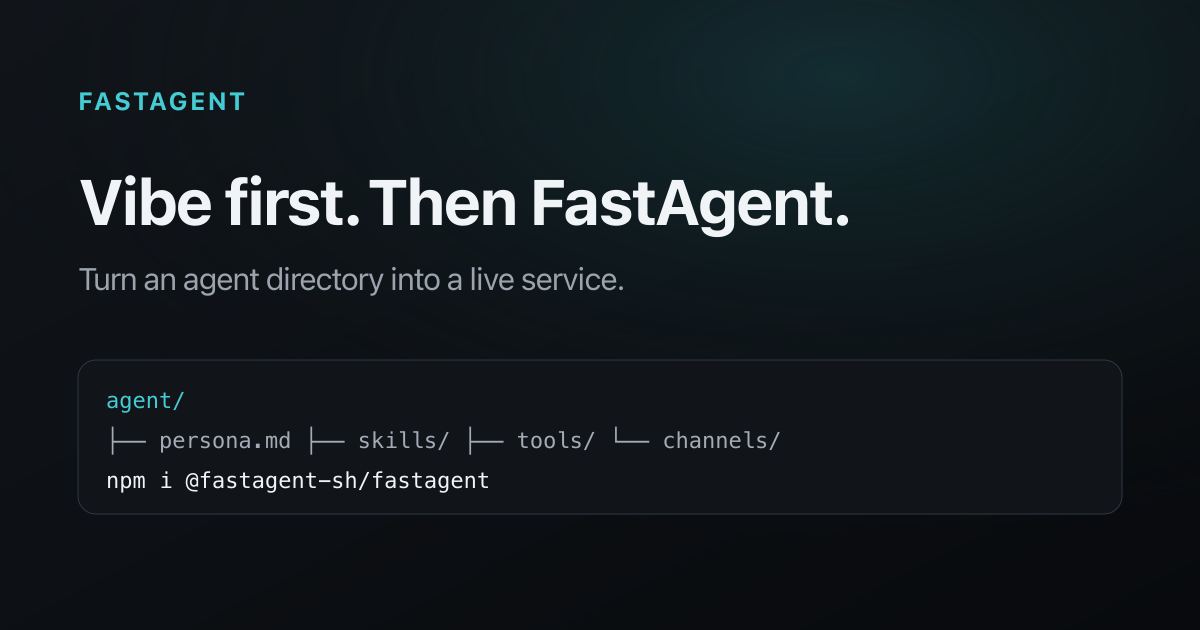
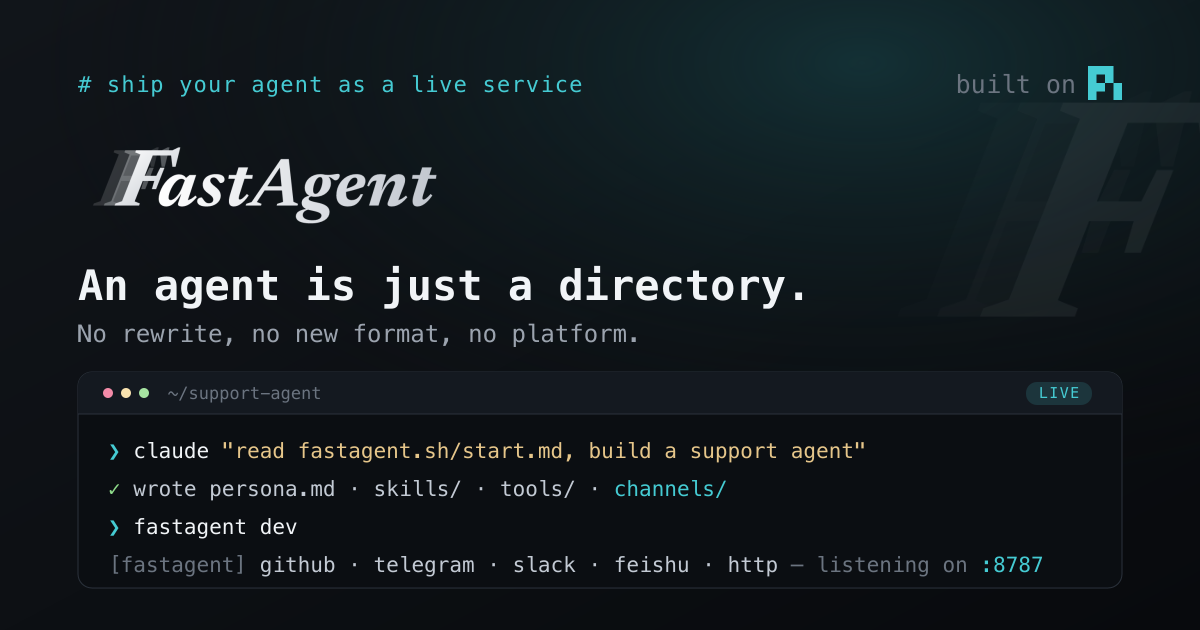
Redesign the OG card around the wordmark; credit pi on the page (#44)
The card never used the brand's best-drawn asset. It spelled "FastAgent"
in a system sans and set the headline in one too, while every surface of
the site is typeset in mono — which is most of why the card read as any
other dev-tool ad.

It is now logo → claim → proof: the wordmark carries the identity (as a
PNG it renders the same on every machine, unlike text), the claim says
what the thing is, and a terminal window replays the hero's two acts in
four lines. The mark rises behind the window as a watermark. The poster
palette is unchanged — near-black ground, one teal glow — which is also
the one cool hue that agrees with the silver wordmark.

pi, the built-in harness, is credited with its own mark from pi.dev's
press kit: top-right of the card, in the hero's trust strip, beside the
core diagram's harness seam, and in the footer. The mark spells the
name, so no "pi" is set next to it; `title` carries it for readers, and
`.pi-credit` gives the text-less link a tap target. The path lives in
brand-icons.ts, so the page and the card draw one copy.

Also: the hero note now claims model and platform neutrality where it
claimed harness neutrality, and AGENTS.md stops promising that
`npm run check` proves the rasters current — it checks one ground pixel,
which a composition change does not move.

diff --git a/src/components/brand-icons.ts b/src/components/brand-icons.ts
@@ -8,6 +8,14 @@ export const brandIcons: Record<string, BrandIcon> = {
     viewBox: "0 0 48 48",
     body: '<g fill="none"><path stroke="currentColor" stroke-linecap="round" stroke-linejoin="round" stroke-width="4" d="M17 29c4 0 8-2.066 11-5.593C36 14 41.424 16.817 44 18c-5.5 3-3.5 11.623-11 18c-4.618 3.926-9.506 5.014-14 5c-6.477-.02-12.138-3.236-15-5.594V17"/><path fill="currentColor" d="M5.648 15.867a2 2 0 1 0-3.296 2.266zM36.002 35.73a2 2 0 0 0-2.004-3.462zM2.352 18.133c2.892 4.206 8.447 10.011 14.535 14.09c3.047 2.044 6.33 3.723 9.562 4.51c3.246.789 6.596.71 9.553-1.002l-2.004-3.462c-1.793 1.038-4.005 1.209-6.603.577c-2.612-.636-5.454-2.05-8.282-3.945c-5.662-3.795-10.856-9.24-13.465-13.034z"/><path stroke="currentColor" stroke-linecap="round" stroke-linejoin="round" stroke-width="4" d="M33.595 17c-.755-2.297-2.74-7.06-6-10h-16C15.217 10.676 23 16 27 24"/></g>',
   },
+  // pi — the primary logo from https://pi.dev/press-kit (pi.dev/logo.svg), its own
+  // fills swapped for currentColor so it takes the surrounding text color. The
+  // viewBox is cropped to the artwork (the source pads it inside an 800² tile),
+  // so the mark fills its box like the simple-icons around it.
+  "pi": {
+    viewBox: "165.29 165.29 469.43 469.43",
+    body: '<path fill="currentColor" fill-rule="evenodd" d="M165.29 165.29H517.36V400H400V517.36H282.65V634.72H165.29ZM282.65 282.65V400H400V282.65Z"/><path fill="currentColor" d="M517.36 400H634.72V634.72H517.36Z"/>',
+  },
   "typescript": "M1.125 0C.502 0 0 .502 0 1.125v21.75C0 23.498.502 24 1.125 24h21.75c.623 0 1.125-.502 1.125-1.125V1.125C24 .502 23.498 0 22.875 0zm17.363 9.75c.612 0 1.154.037 1.627.111a6.38 6.38 0 0 1 1.306.34v2.458a3.95 3.95 0 0 0-.643-.361 5.093 5.093 0 0 0-.717-.26 5.453 5.453 0 0 0-1.426-.2c-.3 0-.573.028-.819.086a2.1 2.1 0 0 0-.623.242c-.17.104-.3.229-.393.374a.888.888 0 0 0-.14.49c0 .196.053.373.156.529.104.156.252.304.443.444s.423.276.696.41c.273.135.582.274.926.416.47.197.892.407 1.266.628.374.222.695.473.963.753.268.279.472.598.614.957.142.359.214.776.214 1.253 0 .657-.125 1.21-.373 1.656a3.033 3.033 0 0 1-1.012 1.085 4.38 4.38 0 0 1-1.487.596c-.566.12-1.163.18-1.79.18a9.916 9.916 0 0 1-1.84-.164 5.544 5.544 0 0 1-1.512-.493v-2.63a5.033 5.033 0 0 0 3.237 1.2c.333 0 .624-.03.872-.09.249-.06.456-.144.623-.25.166-.108.29-.234.373-.38a1.023 1.023 0 0 0-.074-1.089 2.12 2.12 0 0 0-.537-.5 5.597 5.597 0 0 0-.807-.444 27.72 27.72 0 0 0-1.007-.436c-.918-.383-1.602-.852-2.053-1.405-.45-.553-.676-1.222-.676-2.005 0-.614.123-1.141.369-1.582.246-.441.58-.804 1.004-1.089a4.494 4.494 0 0 1 1.47-.629 7.536 7.536 0 0 1 1.77-.201zm-15.113.188h9.563v2.166H9.506v9.646H6.789v-9.646H3.375z",
   "github": "M12 .297c-6.63 0-12 5.373-12 12 0 5.303 3.438 9.8 8.205 11.385.6.113.82-.258.82-.577 0-.285-.01-1.04-.015-2.04-3.338.724-4.042-1.61-4.042-1.61C4.422 18.07 3.633 17.7 3.633 17.7c-1.087-.744.084-.729.084-.729 1.205.084 1.838 1.236 1.838 1.236 1.07 1.835 2.809 1.305 3.495.998.108-.776.417-1.305.76-1.605-2.665-.3-5.466-1.332-5.466-5.93 0-1.31.465-2.38 1.235-3.22-.135-.303-.54-1.523.105-3.176 0 0 1.005-.322 3.3 1.23.96-.267 1.98-.399 3-.405 1.02.006 2.04.138 3 .405 2.28-1.552 3.285-1.23 3.285-1.23.645 1.653.24 2.873.12 3.176.765.84 1.23 1.91 1.23 3.22 0 4.61-2.805 5.625-5.475 5.92.42.36.81 1.096.81 2.22 0 1.606-.015 2.896-.015 3.286 0 .315.21.69.825.57C20.565 22.092 24 17.592 24 12.297c0-6.627-5.373-12-12-12",
   "telegram": "M11.944 0A12 12 0 0 0 0 12a12 12 0 0 0 12 12 12 12 0 0 0 12-12A12 12 0 0 0 12 0a12 12 0 0 0-.056 0zm4.962 7.224c.1-.002.321.023.465.14a.506.506 0 0 1 .171.325c.016.093.036.306.02.472-.18 1.898-.962 6.502-1.36 8.627-.168.9-.499 1.201-.82 1.23-.696.065-1.225-.46-1.9-.902-1.056-.693-1.653-1.124-2.678-1.8-1.185-.78-.417-1.21.258-1.91.177-.184 3.247-2.977 3.307-3.23.007-.032.014-.15-.056-.212s-.174-.041-.249-.024c-.106.024-1.793 1.14-5.061 3.345-.48.33-.913.49-1.302.48-.428-.008-1.252-.241-1.865-.44-.752-.245-1.349-.374-1.297-.789.027-.216.325-.437.893-.663 3.498-1.524 5.83-2.529 6.998-3.014 3.332-1.386 4.025-1.627 4.476-1.635z",

diff --git a/src/styles/site.css b/src/styles/site.css
@@ -78,6 +78,22 @@ body.site {
   text-underline-offset: 0.2em;
 }
 
+/* The pi credit, wherever it appears (hero note, core diagram, footer): pi's
+   own mark, which already spells the name — so it stands alone, no "pi" set
+   beside it. Inline-flex to center it on the line of running text it sits in.
+   The color only lifts it off the dim lines that host it in the hero note and
+   the footer; inside the core diagram `.core-center-sub a` outranks this and
+   keeps the mark on the accent, where its neighbours already are. The padding
+   is a tap target for a link with no text to hit — the negative margin keeps
+   it from moving the line. */
+.pi-credit {
+  display: inline-flex;
+  align-items: center;
+  padding: 0.35rem;
+  margin: -0.35rem;
+  color: var(--text-soft);
+}
+
 .hash {
   color: var(--accent);
   font-weight: 600;

diff --git a/src/site.ts b/src/site.ts
@@ -7,7 +7,7 @@ export const OG_IMAGE = {
   url: `${SITE}/social-preview.png`,
   width: "1200",
   height: "630",
-  alt: "FastAgent — Vibe first. Then FastAgent.",
+  alt: "FastAgent — an agent is just a directory; FastAgent serves it as a live service on any channel.",
 };
 export const BLOG_DESCRIPTION = "Releases, design writeups, and what's shipping next — from the FastAgent team.";
 /** The agent-facing install prompt — the hero card and the closing CTA both copy it. */

diff --git a/AGENTS.md b/AGENTS.md
@@ -4,8 +4,8 @@ This repository owns the public landing page, rendered documentation, blog, and 
 
 - Framework behavior and onboarding source live in `vendor/fastagent/docs/`, pinned from `fastagent-sh/fastagent`.
 - Never edit `src/content/docs/docs/`, `src/generated/`, or `public/start.md`; `npm run sync:docs` regenerates them.
-- `public/social-preview.png` is generated by `npm run og` from `scripts/render-og.mjs`, which holds the card as an SVG template. The card keeps its own colors — it is a poster seen alone in a feed, not a surface of the site — so it does not follow the palette. `public/favicon.png` has no source in the repo and bakes the page background into its tile, so a palette change means re-exporting it. The wordmarks (`logo*.png`) are transparent neutrals and follow no palette.
-- The site palette lives in `src/theme.ts` (Catppuccin Mocha dark, Latte light). Two things stay outside it on purpose: third-party brand colors live with the ecosystem list in `src/pages/index.astro` (and their light-mode fixups in `site.css`), and the OG card keeps its own poster colors in `scripts/render-og.mjs`. `npm run tokens` generates `src/styles/tokens.css` from it — that file is generated, gitignored, and rebuilt before dev/check/build. The mode reaches the tokens as `color-scheme`, which `light-dark()` resolves, so there is one declaration per role and a subtree that must stay dark only sets `color-scheme: dark`. `npm run check` asserts the contrast floors, that every `--term-bg` pane pins that scheme, and that the committed rasters are current.
+- `public/social-preview.png` is generated by `npm run og` from `scripts/render-og.mjs`, which holds the card as an SVG template. The card keeps its own colors — it is a poster seen alone in a feed, not a surface of the site — so it does not follow the palette. `public/favicon.png` has no source in the repo and bakes the page background into its tile, so a palette change means re-exporting it. The wordmarks (`logo*.png`) are transparent neutrals and follow no palette; the OG card embeds them as base64, so re-run `npm run og` if either is re-exported.
+- The site palette lives in `src/theme.ts` (Catppuccin Mocha dark, Latte light). Two things stay outside it on purpose: third-party brand colors live with the ecosystem list in `src/pages/index.astro` (and their light-mode fixups in `site.css`), and the OG card keeps its own poster colors in `scripts/render-og.mjs`. `npm run tokens` generates `src/styles/tokens.css` from it — that file is generated, gitignored, and rebuilt before dev/check/build. The mode reaches the tokens as `color-scheme`, which `light-dark()` resolves, so there is one declaration per role and a subtree that must stay dark only sets `color-scheme: dark`. `npm run check` asserts the contrast floors, that every `--term-bg` pane pins that scheme, and that the committed rasters still paint the color they answer to — a ground-pixel check, so it catches a palette drift, not a composition change: re-run `npm run og` yourself after editing the card.
 - Blog posts live in `src/content/blog/` (rendered by the custom blog pages, not Starlight).
 - Keep the site static: Astro, Starlight, and vanilla CSS. Do not add a client framework, CMS, database, or SSR without a demonstrated need.
 - Node 22.18 or newer: the build scripts import `src/theme.ts` directly, which needs the type stripping Node turns on by default from that version.
